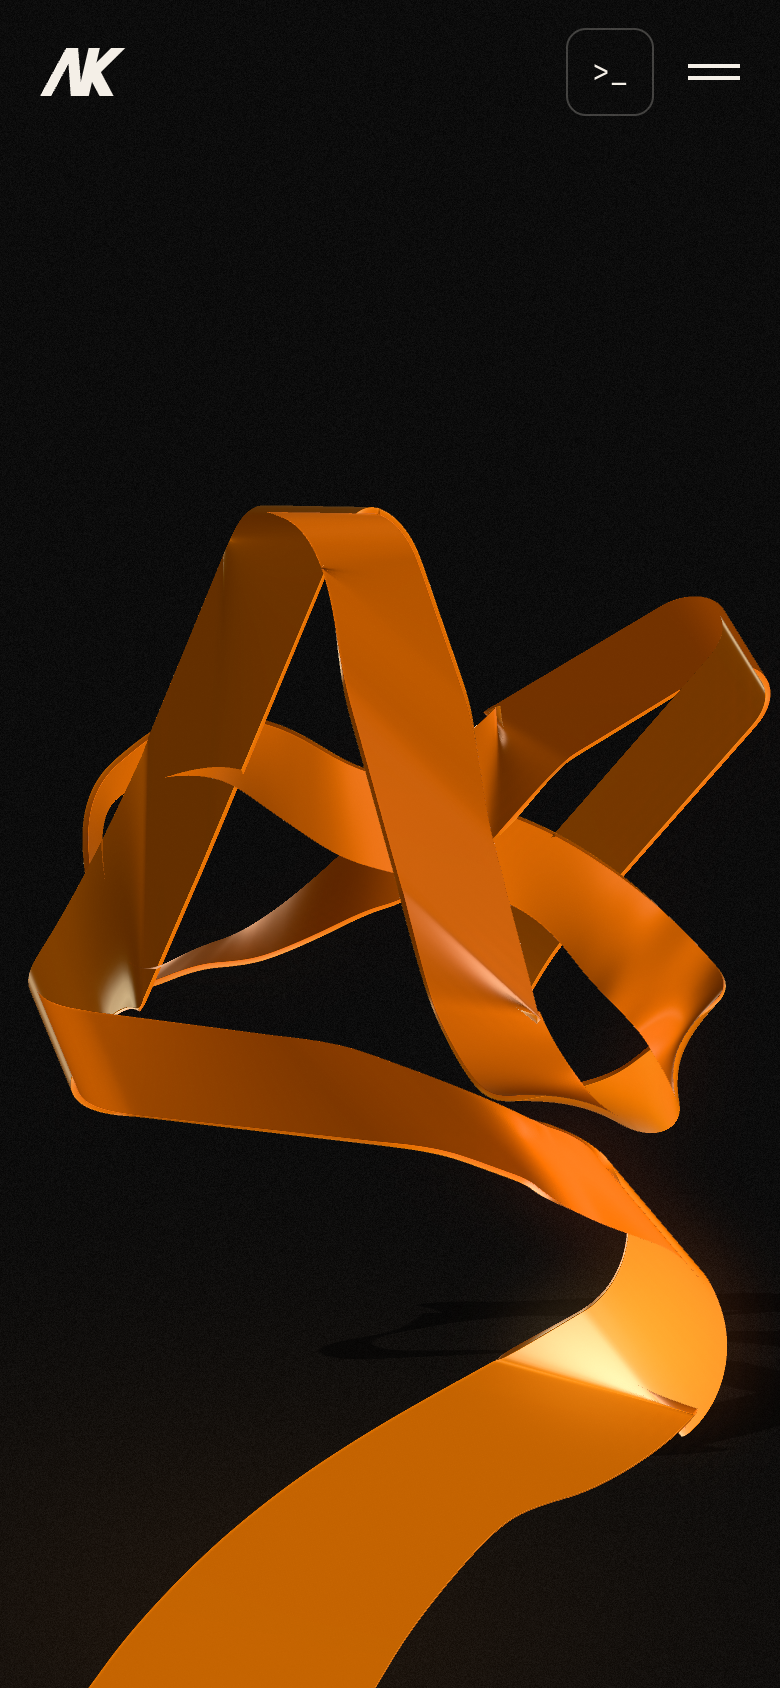
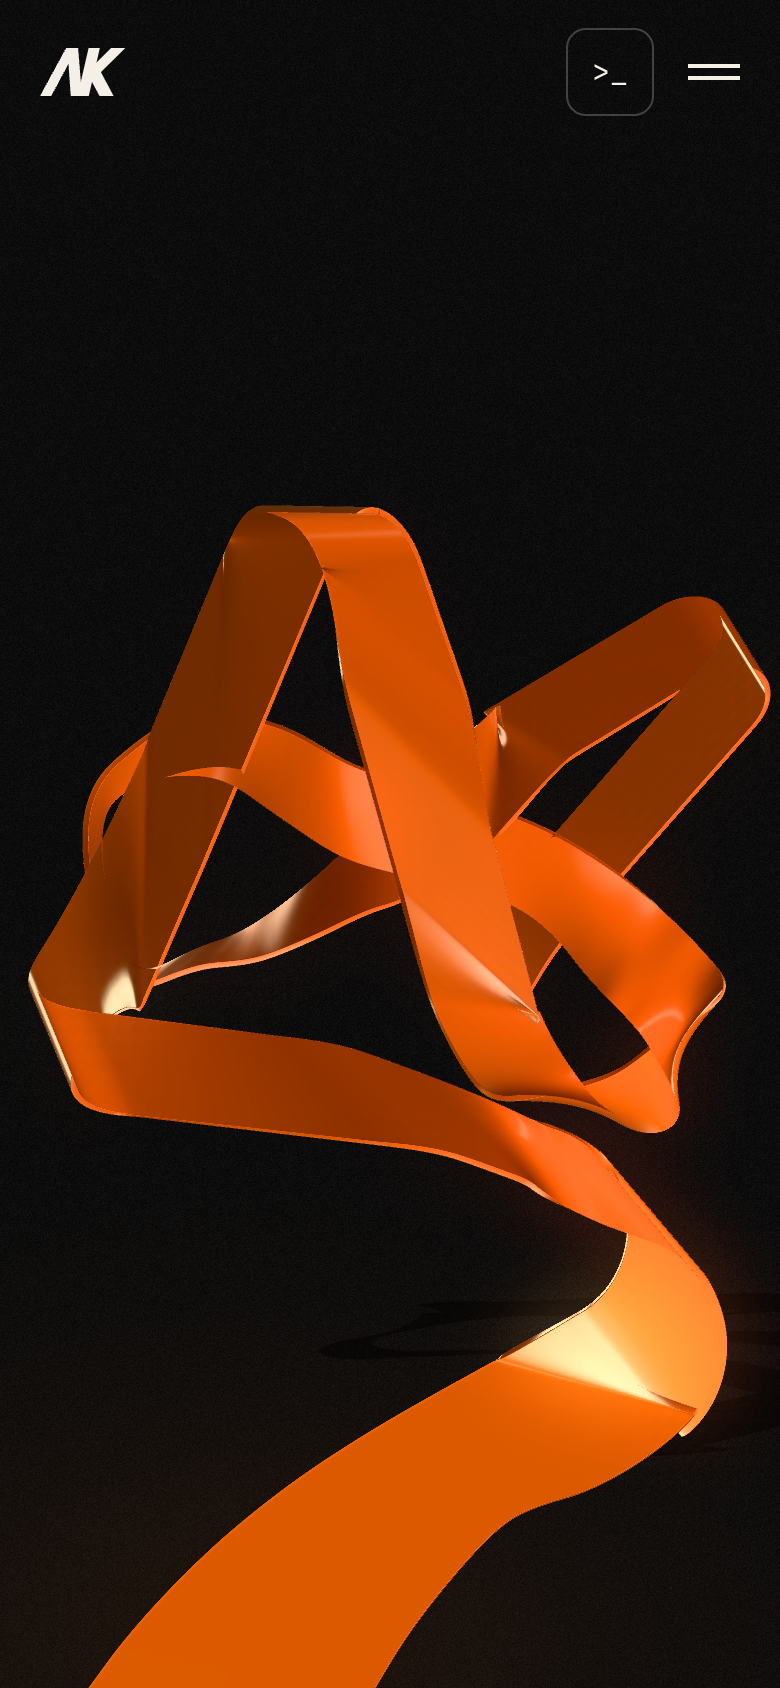
feat(ribbon): material first pass, saturated glossy orange closer to the mockup

diff --git a/lib/ribbon/siteSettings.ts b/lib/ribbon/siteSettings.ts
@@ -17,11 +17,11 @@ export const SITE_SETTINGS: DeepPartial<RibbonSettings> = {
   // the sculpture's satin golden orange (face A the bright face, face B the darker inner face); the anisotropy streaks the
   // highlights along the band like brushed metal
   material: {
-    faceA: { color: "#ff8418", roughness: 0.38, clearcoat: 0.35, clearcoatRoughness: 0.28 },
-    faceB: { color: "#ff7a12", roughness: 0.42, clearcoat: 0.3, clearcoatRoughness: 0.3 },
+    faceA: { color: "#ff6a10", roughness: 0.3, clearcoat: 0.7, clearcoatRoughness: 0.14 },
+    faceB: { color: "#ff620e", roughness: 0.32, clearcoat: 0.65, clearcoatRoughness: 0.15 },
     edge: { mode: "gradient" },
     anisotropy: 0.6,
-    envDiffuse: 0.42,
+    envDiffuse: 0.55,
   },
   // strong form shading as in the sculpture: key from the upper left front, little fill / ambient, so inner and away-facing surfaces go deep
   env: {

diff --git a/docs/ribbon/RESUME.md b/docs/ribbon/RESUME.md
@@ -41,7 +41,7 @@ Read this first, then `docs/ribbon/turns/STATUS.md` (latest sections) and `docs/
     1. **Bottom-K loop**: smaller than the mockup, kinked and flag-shaped at its lower right. In the mockup it is a big round loop. The trace says it is TWO ROLLS (bottom and right) with the inner face visible between them; its outer edge is hidden behind roll outlines (`silhouettes['bottomk']`, 18 points). My hidden-edge path is the trace's guess, inside the outline. Next: build the hidden-edge path so the rulings reach the roll outline (an `EXTEND` attempt only caught 3 rulings, because the `vis` flags do not match the side), or fit a 2-roll paper section to this window, the way msfit did, then re-seat its depth.
     2. **Wrap**: a hook/crumple near the left leg's base. In the mockup it is a clean arch over the leg with a curl down its outside (inner face dark). `X_best` looks clean in isolation (`msfit/overlays/section_X_shaded.png`) but splices in as a diamond: check its projected edges against the trace before splicing.
     3. Small seams remain at section joins (`r8` is much better).
-    4. **Material**: the mockup is a deep saturated glossy orange with dark shading where the band turns away and bright satin highlights; ours is flat, light orange (`lib/ribbon/settings.ts` / `siteSettings.ts` material, untouched so far).
+    4. **Material**: first pass done in `lib/ribbon/siteSettings.ts` (saturated #ff6a10 / #ff620e, clearcoat 0.7, envDiffuse 0.55): the colour is close now (`best/ribbon.png`). Still missing the mockup's strong satin highlight bands and the deep shading on away-facing surfaces (key light / env).
 - Rejected earlier today, don't repeat:
   - **Curvature-frame authoring** (author.py + level.py, v0–v28). The frames roll the band on their own and flip faces with tiny changes (the far-left fold picks its side from the arrival angle).
   - **The explicit design surface** (surface.py, s0–s18). Every reinvented turn looked wrong to the owner: "super bad". Design from circles, arcs and twists = wrong. Build from the trace + the approved sections.
